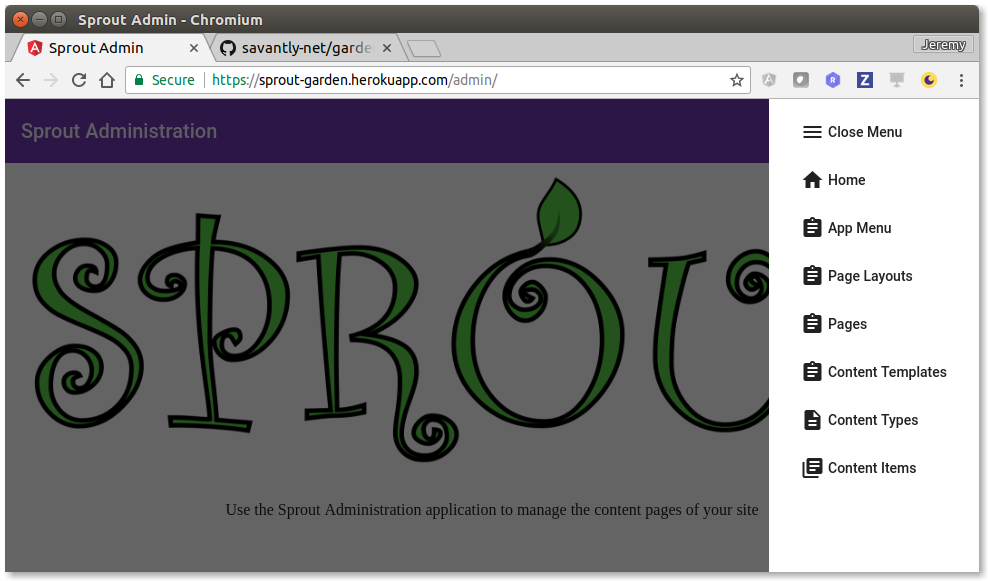
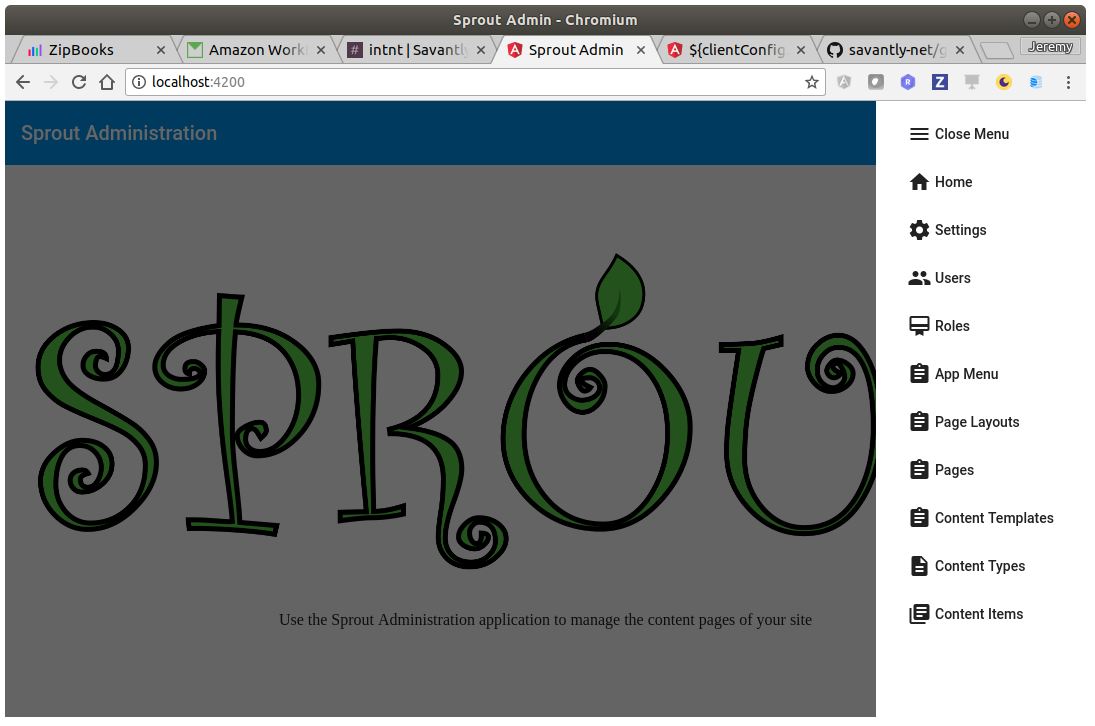
update docs

diff --git a/README.md b/README.md
@@ -23,6 +23,14 @@ A Spring-Boot starter that provides a full server/client framework for rapidly d
   
   
 ### Quick Start Installation  
+Download the latest [release], and start it from the command line -  
+`java -jar garden.jar`  
+
+You can override properties by including a `application.properties` file in the same directory as the jar file.  
+[See here for more info.](./src/main/resources/)  
+
+
+### Development   
 [Requires nodejs]  
 - Branch the [Garden App]
 - Run `mvn spring-boot:run` from the base directory of the project  
@@ -37,6 +45,9 @@ Customizable landing page for your visitors
 Manage your Sprout application here  
 ![admin](./examples/img/sprout-admin.png)  
 ![admin menu](./examples/img/sprout-admin-menu.png)  
+
+### Settings Page
+![admin settings](./examples/img/sprout-admin-settings.png)  
 
 #### Menu Admin Page  
 Manage the menu for your Sprout application  
@@ -82,6 +93,7 @@ Content Items are added to the placeholders, and rendered using the Page Layout 
 
 
 
+[release]: https://github.com/savantly-net/garden/releases  
 [Garden App]: https://github.com/savantly-net/garden  
 [sprout-spring-boot-starter]: https://github.com/savantly-net/sprout-platform/tree/master/spring/sprout-spring-boot-starter  
 [Material Icons]: https://material.io/icons/  
